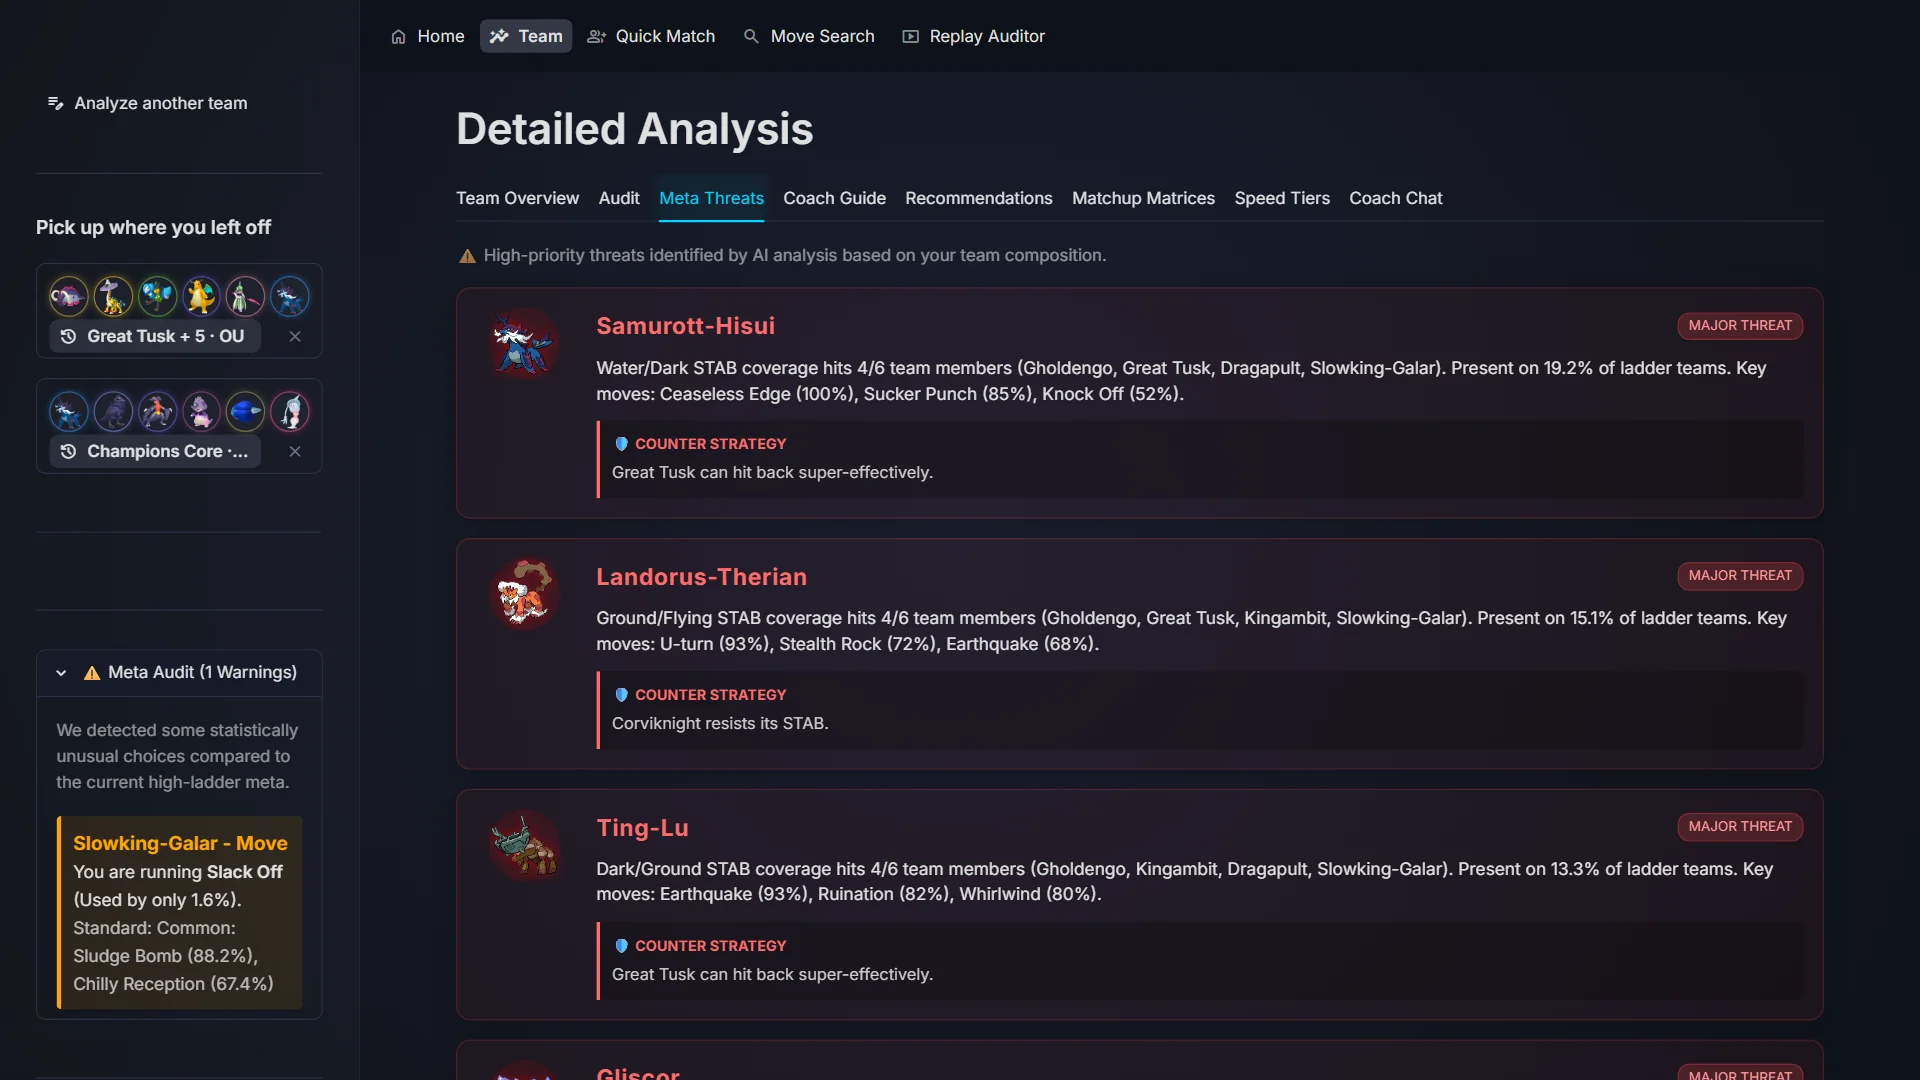
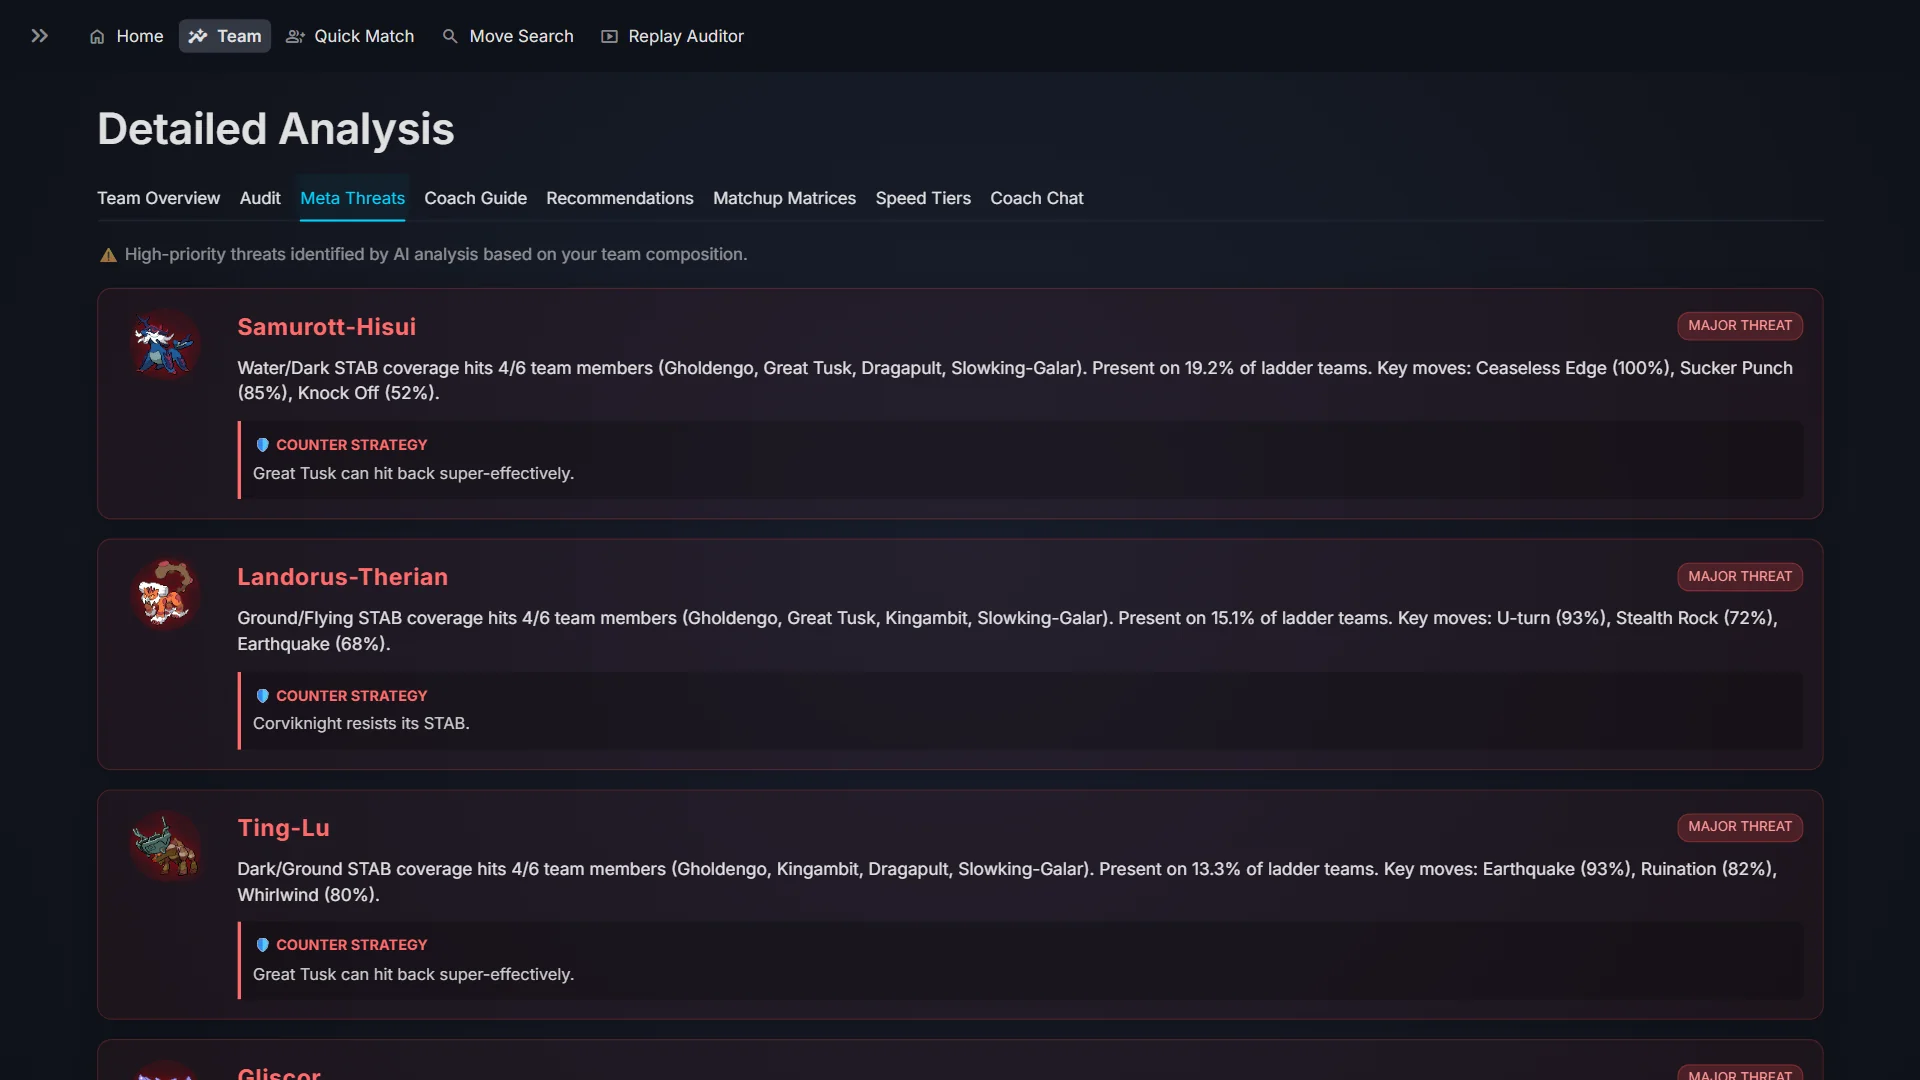
Restructure the visual tour and recapture its screenshots

diff --git a/scripts/capture_showcase.py b/scripts/capture_showcase.py
@@ -171,6 +171,15 @@ def frame(page, name, target=None, offset=80):
     return save(Image.open(io.BytesIO(page.screenshot())), name)
 
 
+def collapse_sidebar(page):
+    """Hides the sidebar so content frames show the content, not the same recent teams every time."""
+    if not page.locator('[data-testid="stSidebar"][aria-expanded="true"]').count():
+        return
+    page.locator('[data-testid="stSidebarHeader"]').first.hover()
+    page.locator('[data-testid="stSidebarCollapseButton"] button').first.click()
+    page.wait_for_timeout(900)
+
+
 def open_sample(page):
     page.goto(URL)
     page.wait_for_selector(".mp-card", timeout=120000)
@@ -267,6 +276,7 @@ def capture_dashboard(b, llm):
     check(page, "dashboard")
     frame(page, "dashboard")
     frame(page, "squad", "text=Your Squad", offset=90)
+    collapse_sidebar(page)
     for name, slug in [("Team Overview", "tab_overview"), ("Audit", "tab_audit"), ("Meta Threats", "tab_threats"),
                        ("Recommendations", "tab_recommendations"), ("Matchup Matrices", "tab_matrices"),
                        ("Speed Tiers", "tab_speed")]:
@@ -284,16 +294,25 @@ def capture_dashboard(b, llm):
 
 
 def capture_chat(b):
+    """One clean conversation per shot: the team's saved chat is cleared and the page reloaded first."""
+    from metamatch import storage
     page = new_page(b)
     open_sample(page)
-    tab(page, "Coach Chat")
+    team_url = page.url
+    tid = re.search(r"[?&]t=([0-9a-f]+)", team_url).group(1)
     for question, slug in [("Does my Great Tusk outspeed Iron Valiant?", "chat_clemont"),
                            ("How do I beat Raging Bolt?", "chat_oak"),
                            ("What item does Kingambit usually run?", "chat_brock"),
                            ("Does it outspeed my Dragapult?", "chat_clarify")]:
+        storage.clear_chat(tid)
+        page.goto(team_url)
+        page.wait_for_selector("text=Team Dashboard", timeout=120000)
+        idle(page)
+        collapse_sidebar(page)
+        tab(page, "Coach Chat")
         q, _ = ask(page, question)
         check(page, slug)
-        frame(page, slug, q, offset=90)
+        frame(page, slug, "text=Ask the Coach", offset=85)
     page.close()
 
 
@@ -358,6 +377,13 @@ def capture_extras(b, user_dir):
         page.get_by_role("button", name="Try a sample team").click()
         page.wait_for_selector("text=Team Dashboard", timeout=120000)
         idle(page)
+        # Same store as the chat shots: start from an empty conversation
+        from metamatch import storage
+        storage.clear_chat(re.search(r"[?&]t=([0-9a-f]+)", page.url).group(1))
+        page.reload()
+        page.wait_for_selector("text=Team Dashboard", timeout=120000)
+        idle(page)
+        collapse_sidebar(page)
         tab(page, "Coach Chat")
         q, _ = send(page, "What are my biggest threats?")
         frame(page, "offline_mode", q, offset=90)

diff --git a/showcase/README.md b/showcase/README.md
@@ -1,136 +1,173 @@
-<p align="center">
-  <img src="../assets/images/dark_logo_transp.png" alt="MetaMatch logo" width="160">
-</p>
+<img src="../assets/images/dark_logo_transp.png" alt="MetaMatch logo" width="120">
 
-<h1 align="center">MetaMatch: The Visual Tour</h1>
+# MetaMatch: The Visual Tour
 
-<p align="center">
-  Everything MetaMatch does, without installing anything.<br>
-  Every screen below is the real app running locally: real ladder data, real engine verdicts and real answers from a 3B model on a laptop GPU. Nothing is mocked.
-</p>
+Everything MetaMatch does, without installing anything. Every screen is the real app running locally: real ladder data, real engine verdicts and real answers from a 3B model on a laptop GPU. Nothing is mocked.
 
-<p align="center">
-  <a href="../README.md">Main README</a> ·
-  <a href="#-home-and-metaflash">Home</a> ·
-  <a href="#-the-team-dashboard">Dashboard</a> ·
-  <a href="#-the-coaching-staff">Coach chat</a> ·
-  <a href="#-tools">Tools</a> ·
-  <a href="#-built-to-be-used">Everyday use</a> ·
-  <a href="#-under-the-hood">Under the hood</a>
-</p>
+[Main README](../README.md) · [Home](#home-and-metaflash) · [Dashboard](#the-team-dashboard) · [Coach chat](#the-coaching-staff) · [Tools](#tools) · [Everyday use](#built-to-be-used)
 
 ![The team dashboard for the built in sample team](images/dashboard.webp)
 
-<p align="center"><i>One click on "Try a sample team": parsing, roles, type math, threats and audit land in about a second, no GPU needed.</i></p>
+*One click on "Try a sample team": parsing, roles, type math, threats and audit land in about a second.*
 
 ---
 
-## 🏠 Home and MetaFlash
+## Home and MetaFlash
 
-The home screen is a paste box and a live front page of the ladder for whichever format you pick.
+### Home
+
+A paste box for a Showdown export or pokepast.es link, and a format picker that drives the whole app.
 
 ![Home screen with the format picker and paste box](images/home.webp)
 
-**MetaFlash** turns six months of Smogon usage stats into a story page that rewrites itself every month: the story of the month with a six month chart, the top 10 with rank changes, and story cards for the risers, fallers, newcomers and fastest threat.
+### MetaFlash
+
+Six months of Smogon usage stats turned into a front page that rewrites itself every month: the story of the month with a six month chart, and the top 10 with rank changes.
 
 ![MetaFlash: story of the month and the top 10 leaderboard](images/metaflash.webp)
 
+### Story cards
+
+The #1, the biggest risers and fallers, newcomers to the top 30 and the fastest common threat. Every headline is chosen by rules from the data, not written by a model.
+
 ![MetaFlash story cards: the #1, risers, fallers, newcomers and the fastest threat](images/metaflash_stories.webp)
 
-Every headline (*"Raging Bolt climbs 8 ranks to #5"*) is chosen by rules from the data, not written by a model. Hover any partner for its own card.
+### Partner cards
+
+Hover any partner to see its types, ladder rank, usage and usual item.
 
 ![A partner hover card on a story card](images/metaflash_hover.webp)
 
-Switch the format and the whole page rebuilds for that ladder, here Pokémon Champions OU with Mega Evolution:
+### Every format
+
+Switch the format and the page rebuilds for that ladder, here Pokémon Champions OU with Mega Evolution.
 
 ![MetaFlash for Champions OU](images/metaflash_champions.webp)
 
 ---
 
-## 📊 The Team Dashboard
+## The Team Dashboard
 
-Paste a Showdown export or a pokepast.es link and every member is parsed, typed, statted and given competitive roles.
+### Squad
+
+Every member parsed, typed, statted and given competitive roles.
 
 ![Squad cards with type glow, roles, item, ability and spread](images/squad.webp)
 
-| | |
-| :-- | :-- |
-| ![Team Overview: offensive coverage and defensive weaknesses](images/tab_overview.webp) | ![Audit: item and ability synergy flags and role gaps](images/tab_audit.webp) |
-| **Team Overview:** which types you hit and which ones hit you, counted per member. | **Audit:** deterministic checks for item and ability synergy, missing roles and coverage holes. |
-| ![Meta Threats: the five biggest threats to this team](images/tab_threats.webp) | ![Coach Guide: a pilot guide written by the local model](images/tab_guide.webp) |
-| **Meta Threats:** scored by members hit squared times ladder usage, each with counterplay from your own team. | **Coach Guide:** win condition, leads, Tera plan and key combos, written on demand by the local model. |
-| ![Recommendations: teammates that fill your missing roles](images/tab_recommendations.webp) | ![Matchup Matrices: offensive and defensive type charts for the team](images/tab_matrices.webp) |
-| **Recommendations:** ladder teammate data with a boost for Pokémon that fill a missing role. | **Matchup Matrices:** the full type chart for your six, attack and defence. |
-| ![Speed Tiers: your team against the meta's speed tiers](images/tab_speed.webp) | |
-| **Speed Tiers:** your real speed stats placed among the top meta threats. | |
+### Team Overview
+
+Which types you hit and which ones hit you, counted per member.
+
+![Team Overview: offensive coverage and defensive weaknesses](images/tab_overview.webp)
+
+### Audit
+
+Deterministic checks for item and ability synergy, missing roles and coverage holes.
+
+![Audit: item and ability synergy flags and role gaps](images/tab_audit.webp)
+
+### Meta Threats
+
+The five biggest threats to this team, scored by members hit squared times ladder usage, each with counterplay from your own six.
+
+![Meta Threats: the five biggest threats to this team](images/tab_threats.webp)
+
+### Coach Guide
+
+Win condition, leads, Tera plan and key combos, written on demand by the local model.
+
+![Coach Guide: a pilot guide written by the local model](images/tab_guide.webp)
+
+### Recommendations
+
+Ladder teammate data, with a boost for Pokémon that fill a role the team is missing.
+
+![Recommendations: teammates that fill your missing roles](images/tab_recommendations.webp)
+
+### Matchup Matrices
+
+The full type chart for your six, on defence and on offence.
+
+![Matchup Matrices: offensive and defensive type charts for the team](images/tab_matrices.webp)
+
+### Speed Tiers
+
+Your real speed stats placed among the top meta threats.
+
+![Speed Tiers: your team against the meta's speed tiers](images/tab_speed.webp)
 
 ---
 
-## 🧑🏫 The Coaching Staff
+## The Coaching Staff
 
-Chat questions are planned by code first. Facts (speed, damage, KOs, types, usage) are computed by the engine and stated before the model says a word; the model only explains, and a verifier rejects any explanation that contradicts the engine.
+Questions are planned by code first. Facts (speed, damage, KOs, types, usage) are computed by the engine and stated before the model says a word; the model only explains, and a verifier rejects any explanation that contradicts the engine.
 
-**Clemont, mechanics.** The verdict comes from the engine, the explanation from the model, checked against it:
+### Clemont, mechanics
+
+The verdict comes from the engine, the explanation from the model, checked against it.
 
 ![Clemont answering a speed question with an engine verdict](images/chat_clemont.webp)
 
-**Professor Oak, strategy.** One on one engine verdicts open the answer, then verified advice:
+### Professor Oak, strategy
+
+One on one engine verdicts open the answer, then verified advice.
 
 ![Professor Oak's engine check and advice against Raging Bolt](images/chat_oak.webp)
 
-**Brock, building.** Usage numbers straight from this month's ladder stats:
+### Brock, building
+
+Usage numbers straight from this month's ladder stats.
 
 ![Brock answering a usage question with ladder numbers](images/chat_brock.webp)
 
-**When a question is ambiguous, it asks** instead of answering a different question:
+### Asking when unsure
+
+When a question is ambiguous, it asks instead of answering a different question.
 
 ![The coach asking which Pokémon the question is about](images/chat_clarify.webp)
 
 ---
 
-## 🧰 Tools
+## Tools
 
-**Quick Match.** No team yet? Pick a core and get the partners that pair best with it on the ladder.
+### Quick Match
+
+No team yet? Pick a core and get the partners that pair best with it on the ladder.
 
 ![Quick Match partners for Great Tusk and Kingambit](images/quick_match.webp)
 
-**Move Search.** Find every set that runs a combination of moves, from the Smogon Strategy Dex and ladder usage.
+### Move Search
+
+Every set that runs a combination of moves, from the Smogon Strategy Dex and ladder usage.
 
 ![Move Search results for Knock Off and U-turn](images/move_search.webp)
 
-**Replay Auditor.** Paste a Showdown replay for a post mortem: the result, team health turn by turn, the cause of every faint, mistakes and notes dated to their turn, and every set the opponent revealed.
+### Replay Auditor
+
+A post mortem of any Showdown replay: the result, team health turn by turn and the cause of every faint.
 
 ![Replay Auditor: result and team health chart](images/replay_auditor.webp)
+
+Mistakes and notes dated to their turn, and every set the opponent revealed.
 
 ![Replay Auditor: mistakes and notes, and the opponent's revealed sets](images/replay_details.webp)
 
 ---
 
-## 🧭 Built to Be Used
+## Built to Be Used
 
-**It remembers.** Recent teams sit in the sidebar, one click from reopening; saved teams show every set on hover. Every team also has its own link (`/team?t=<id>`), so refresh, bookmarks, Back and a second tab all keep your dashboard.
+### It remembers
+
+Recent teams sit in the sidebar, one click from reopening, and saved teams show every set on hover. Every team has its own link, so refresh, bookmarks, Back and a second tab all keep your dashboard.
 
 ![Sidebar with recent teams and a saved team's set cards](images/sidebar.webp)
 
-**It works offline.** With the model server off, every analysis tab still runs and the coach answers with the engine's facts:
+### It works offline
+
+With the model server off, every analysis tab still runs and the coach answers with the engine's facts.
 
 ![The coach answering with engine facts while the model is offline](images/offline_mode.webp)
 
-**It works on a phone.**
+### It works on a phone
 
 ![MetaMatch at phone width: home, MetaFlash and the dashboard](images/phone.webp)
-
----
-
-## ⚙ Under the Hood
-
-* **MetaBench:** a 3B model alone scores 18% on factual battle questions; MetaMatch on the same model scores 100%, and 94% and 97.5% on blind held out sets. [Results and method](../README.md#-metabench-the-metamatch-benchmarker)
-* **Frozen fresh test set:** 201 new questions with independently computed answer keys, hash locked in CI. [Details](../README.md#frozen-fresh-test-set)
-* **Regression tested:** every push runs the test suite and replays the benchmark against a pinned stats snapshot.
-* **Fully local:** Ollama for the model, the official Smogon damage calculator as a Node sidecar, SQLite for your teams. No API keys, no cloud.
-
-<p align="center"><a href="../README.md#-setup">Run it yourself →</a></p>
-
----
-
-<sub>Captured by [`scripts/capture_showcase.py`](../scripts/capture_showcase.py), which boots the app against a throwaway store and drives every flow in a headless browser, so this tour can be regenerated whenever the UI changes. Needs Playwright, Pillow and Ollama (dev tools, not app requirements).</sub>

diff --git a/README.md b/README.md
@@ -31,7 +31,7 @@ Every factual answer (damage rolls, KOs, speed, immunities, stats, usage) is com
 
 ![MetaMatch Dashboard](assets/images/dashboard.png)
 
-<p align="center"><b>👀 No install needed: <a href="showcase/">take the visual tour</a></b>, every screen of the app with real data and real coach answers.</p>
+<p align="center"><b>No install needed: <a href="showcase/">take the visual tour</a></b>, every screen of the app with real data and real coach answers.</p>
 
 ---
 
